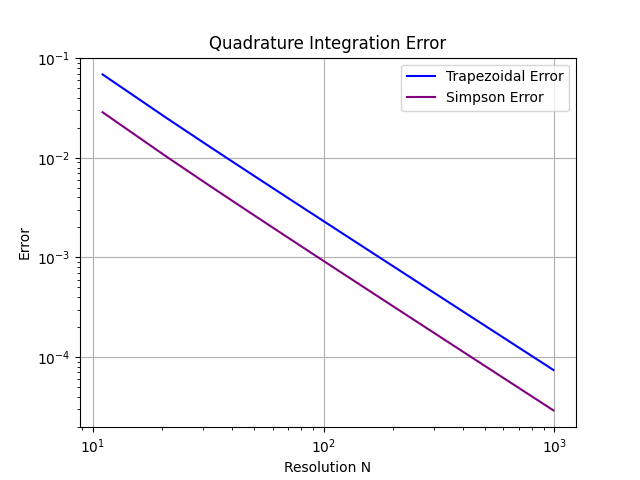
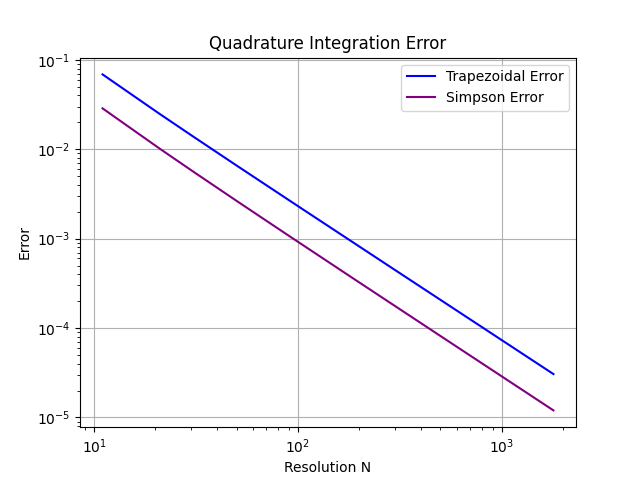
lakdj

diff --git a/HW6/P2.py b/HW6/P2.py
@@ -89,6 +89,7 @@ def c_plotting():
     plt.grid(True)
     plt.savefig('1D_Newton.png')
     plt.show()
+    print(f'iterates1= {newton1D(0.1, f2, f2_prime)[1]}, iterates2 = {newton1D(2, f2, f2_prime)[1]}')
 
 
 
@@ -185,7 +186,7 @@ def convergence_order(guess_coords):
 
 
 ########################################## SUBSECTIONS A,C,D FUNCTION CALLS ########################################## 
-a_plotting()
+#a_plotting()
 c_plotting()
-d_plotting(np.array([[0.01, 3],[-0.01, 3],[2, -2]]))
-convergence_order(np.array([[0.01, 3],[-0.01, 3],[2, -2]]))
+#d_plotting(np.array([[0.01, 3],[-0.01, 3],[2, -2]]))
+#convergence_order(np.array([[0.01, 3],[-0.01, 3],[2, -2]]))

diff --git a/HW6/P4.py b/HW6/P4.py
@@ -67,7 +67,7 @@ def error_plotting(N_range):
 
 
 # Calling functions:
-error_plotting(np.arange(11,1001,10))
+error_plotting(np.arange(11,1801,10))
 
 
 
